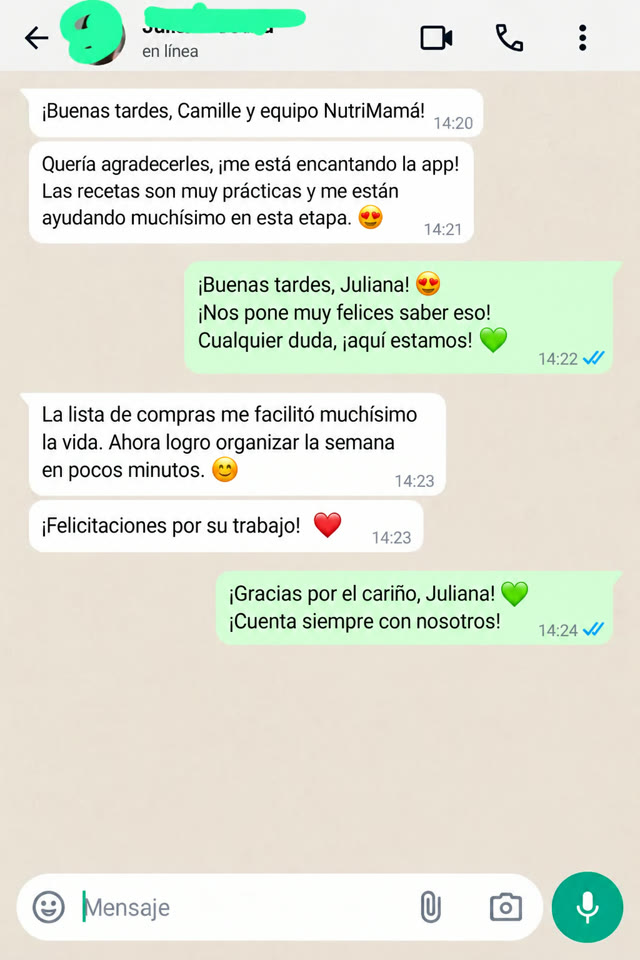
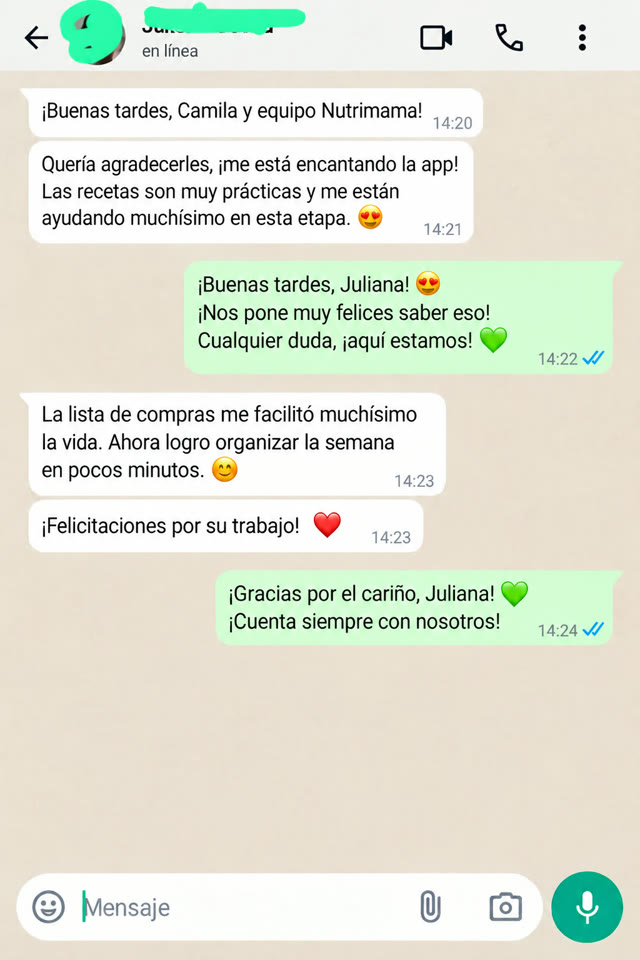
Renomeia Camille para Camila na landing e atualiza 4 depoimentos
Corrige o nome da especialista de "Camille" para "Camila" no texto da
secao Sobre, e substitui 4 prints de depoimentos (1, 5, 7, 9) por
versoes atualizadas onde o mesmo ajuste ja aparece na conversa, alem
de corrigir a marca "NutriMae" para "Nutrimama" nos que ainda estavam
com a grafia antiga.

diff --git a/landing-nutrimae/index.html b/landing-nutrimae/index.html
@@ -275,13 +275,13 @@ src="https://www.facebook.com/tr?id=2114096239178681&ev=PageView&noscript=1"
 <section id="bloco-autoridade" class="persona-story">
   <div class="container persona-story__grid">
     <div class="persona-story__img">
-      <img src="assets/persona/camille_historia_01.jpg" alt="Camille, la especialista detrás de NutriMama, en la cocina de su casa" width="800" height="1000" loading="lazy" decoding="async">
+      <img src="assets/persona/camille_historia_01.jpg" alt="Camila, la especialista detrás de NutriMama, en la cocina de su casa" width="800" height="1000" loading="lazy" decoding="async">
     </div>
     <div class="persona-story__copy">
       <p class="persona-story__caption">Cercanía detrás de cada platito</p>
       <h2 class="persona-story__quote">"Cuidar cada comida no debería significar descubrirlo todo sola."</h2>
       <p class="persona-story__text">
-        Soy Camille. Estoy aquí para mostrarte una forma más simple de organizar una rutina llena de
+        Soy Camila. Estoy aquí para mostrarte una forma más simple de organizar una rutina llena de
         pequeñas decisiones: qué ofrecer, cómo prepararlo y qué comprar para la semana.
       </p>
       <p class="persona-story__text">
@@ -294,7 +294,7 @@ src="https://www.facebook.com/tr?id=2114096239178681&ev=PageView&noscript=1"
         Para que pases menos tiempo buscando y tengas más espacio para disfrutar los descubrimientos en
         la mesa, al ritmo de tu familia.
       </p>
-      <p class="persona-story__signature">Con cariño, Camille 💛</p>
+      <p class="persona-story__signature">Con cariño, Camila 💛</p>
     </div>
   </div>
 </section>
